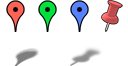
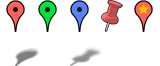
Implemented cool search box!

diff --git a/TheJobMap/war/jobmap.js b/TheJobMap/war/jobmap.js
@@ -43,9 +43,9 @@ var jobmap = {
 	map: null,
 	markers: [],
 	filter: {type:['city'], cat:[]},
-	mapMarkers: [],
 	newMarker: null,
 	myMarkers: [],
+	searchMatches: [],
 	mapControls: null,
 	mapOverlay: null,
 	infoWindow: null,
@@ -67,13 +67,15 @@ var jobmap = {
 	 * Initialize The Job Map.
 	 */
 	init: function(map) {
+		jobmap.map = map;
+		
+		// Setup ajax
 		$.ajaxSetup({
 			contentType: 'application/json; charset=UTF-8'
 		});
 		$(document).ajaxError(function(e, xhr, settings, exception) {
 			printError(settings.type+' '+settings.url+' failed: ', xhr.responseText);
 		});
-		jobmap.map = map;
 		
 		// Console
 		$('body').keypress(function(e) {
@@ -86,10 +88,22 @@ var jobmap = {
 			}
 		});
 
-		// Init side menu
+		// Zoom
+		google.maps.event.addListener(map, 'zoom_changed', jobmap.zoomChanged);
+		jobmap.zoom = jobmap.map.getZoom();
+
+		// InfoWindow
+		jobmap.infoWindow = new google.maps.InfoWindow({
+			maxWidth: 400
+		});
+		google.maps.event.addListener(jobmap.map, 'click', function() {
+			jobmap.infoWindow.close();
+		});
+		
+		// Side menu
 		jobmap.sideMenu();
 		
-		// Init OverlayView
+		// OverlayView
 		jobmap.mapOverlay = new google.maps.OverlayView();
 		jobmap.mapOverlay.draw = function() {};
 		jobmap.mapOverlay.setMap(jobmap.map);
@@ -97,21 +111,14 @@ var jobmap = {
 		// Create map controls
 		var mapControls = $('<div id="MapControls"></div>').css('opacity','0');
 		$('<button id="refreshMarkersButton">Refresh markers</button>').click(function() {
+			jobmap.clearSearch();
 			jobmap.clearMarkers();
 			jobmap.getMarkers('');
 		}).appendTo(mapControls);
-		$('<button id="createMarkerButton">Create my marker</button>').click(jobmap.createMarker).appendTo(mapControls);
+		$('<button id="createMarkerButton"></button>').click(jobmap.createMarker).appendTo(mapControls);
 		$('<button id="zoomOutButton">Zoom out</button>').click(jobmap.resetZoom).appendTo(mapControls);
 		jobmap.mapControls = mapControls;
 		map.controls[google.maps.ControlPosition.TOP_CENTER].push(mapControls[0]);
-		
-		// Info Window
-		jobmap.infoWindow = new google.maps.InfoWindow({
-			maxWidth: 400
-		});
-		google.maps.event.addListener(jobmap.map, 'click', function() {
-			jobmap.infoWindow.close();
-		});
 		
 		// Define pins
 		// [size], [origin], [point]
@@ -120,8 +127,7 @@ var jobmap = {
 			pushpin: [[59,32], [61,34], [9,32]]
 		};
 		$.each(shadow, function(i, m) {
-			shadow[i] = new google.maps.MarkerImage(
-					'/images/pins.png',
+			shadow[i] = new google.maps.MarkerImage('/images/pins.png',
 				new google.maps.Size(m[0][0],  m[0][1]),
 				new google.maps.Point(m[1][0], m[1][1]),
 				new google.maps.Point(m[2][0], m[2][1])
@@ -131,12 +137,12 @@ var jobmap = {
 			red:     [[32,32], [0,0],  [16,32], shadow.pin],
 			green:   [[32,32], [32,0], [16,32], shadow.pin],
 			blue:    [[32,32], [64,0], [16,32], shadow.pin],
-			pushpin: [[32,32], [96,0], [9,32],  shadow.pushpin]
+			pushpin: [[32,32], [96,0], [9,32],  shadow.pushpin],
+			search:  [[32,32], [128,0],[16,32], shadow.pin]
 		};
 		$.each(pins, function(i, m) {
 			jobmap.pins[i] = {
-				icon: new google.maps.MarkerImage(
-						'/images/pins.png',
+				icon: new google.maps.MarkerImage('/images/pins.png',
 					new google.maps.Size(m[0][0],  m[0][1]),
 					new google.maps.Point(m[1][0], m[1][1]),
 					new google.maps.Point(m[2][0], m[2][1])
@@ -153,10 +159,11 @@ var jobmap = {
 		// Create pin legend
 		var pinLegend = $('<div id="PinLegend">'+
 				'<span class="right ui-icon ui-icon-circle-close" title="Close"></span>'+
-				'<div><span class="city"></span> = A city</div>'+
-				'<div><span class="red"></span> = A job offer</div>'+
-				'<div><span class="green"></span> = You</div>'+
-				'<div><span class="blue"></span> = Someone else</div>'+
+				'<div><span class="pinLegend city"></span> = A city</div>'+
+				'<div><span class="pinLegend red"></span> = A job offer</div>'+
+				'<div><span class="pinLegend search"></span> = Search result</div>'+
+				'<div><span class="pinLegend green"></span> = You</div>'+
+				'<div><span class="pinLegend blue"></span> = Someone else</div>'+
 				'</div>').css('opacity','0');
 		$('.ui-icon',pinLegend).click(function() {
 			$(pinLegend).fadeOut('fast');
@@ -173,9 +180,21 @@ var jobmap = {
 		}).addClass('hidden').appendTo('#account');
 		$('<button id="logButton"></button>').click(jobmap.logButton).appendTo('#account');
 		
-		// Add listeners
-		google.maps.event.addListener(map, 'zoom_changed', jobmap.zoomChanged);
-		jobmap.zoom = jobmap.map.getZoom();
+		// Search
+		$('<div id="search"></div>')
+		.append($('<input type="search" id="q" placeholder="Examples: mechanic, nurse, teacher" />')
+			.keypress(function(e) {
+				if (e.which == 13) jobmap.search();
+				$(this).attr('oldvalue', $(this).val());
+			})
+			.click(function() {
+				if ($(this).val() == '' && $(this).attr('oldvalue') != '') jobmap.clearSearch();
+			}))
+		.append(' ')
+		.append($('<button>Search jobs</button>')
+			.click(jobmap.search))
+		.append($('<p id="searchResult"></p>'))
+		.appendTo('#panel');
 		
 		// Make requests
 		jobmap.getMarkers('city');
@@ -190,7 +209,7 @@ var jobmap = {
 	/**
 	 * Initialize the side menu.
 	 */
-	sideMenu: function(){
+	sideMenu: function() {
 		$('<div id="accordion">'+
 		'<h3><a href="#"><b>Find a job</b></a></h3>'+
 		'<div>'+
@@ -298,11 +317,10 @@ var jobmap = {
 			jobmap.newMarker.setMap(null);
 			jobmap.newMarker = null;
 		}
-		for (var i=0; i < jobmap.mapMarkers.length; i++) {
-			jobmap.mapMarkers[i].setMap(null);
-		}
+		$.each(jobmap.markers, function(key, marker) {
+			marker.mapMarker.setMap(null);
+		});
 		jobmap.markers = [];
-		jobmap.mapMarkers = [];
 	},
 	
 	/**
@@ -349,7 +367,6 @@ var jobmap = {
 			// This is a new marker
 			marker.mapMarker = mapMarker;
 			jobmap.markers.push(marker);
-			jobmap.mapMarkers.push(mapMarker);
 		}
 
 		// Set marker icon
@@ -362,6 +379,7 @@ var jobmap = {
 			jobmap.myMarkers.push(marker);
 			if (jobmap.user.privileges == 'random') {
 				$('#createMarkerButton',jobmap.mapControls).text('Edit my marker');
+				google.maps.event.trigger(jobmap.map, 'resize');
 			}
 		}
 		
@@ -418,7 +436,8 @@ var jobmap = {
 	markerVisible: function(marker) {
 		return (jobmap.showAll
 			|| (jobmap.isOwner(marker) && !jobmap.isAdmin())
-			|| (jobmap.filter.type.indexOf(marker.type) != -1 && (marker.type != 'company' || jobmap.filter.cat.indexOf(marker.cat) != -1)));
+			|| (jobmap.filter.type.indexOf(marker.type) != -1 && (marker.type != 'company' || jobmap.filter.cat.indexOf(marker.cat) != -1))
+			|| (jobmap.searchMatches.indexOf(marker) != -1));
 	},
 	
 	/**
@@ -533,6 +552,7 @@ var jobmap = {
 				jobmap.myMarkers.splice(0, 1);
 				if (jobmap.user.privileges == 'random') {
 					$('#createMarkerButton',jobmap.mapControls).text('Create my marker');
+					google.maps.event.trigger(jobmap.map, 'resize');
 				}
 			}
 			for (var i=0; i < jobmap.markers.length; i++) {
@@ -722,6 +742,74 @@ var jobmap = {
 		
 		jobmap.infoWindow.setContent(info[0]);
 	},
+
+	/** Search */
+	
+	/**
+	 * Searches markers.
+	 */
+	search: function() {
+		jobmap.clearSearch();
+		
+		// Get query
+		var q = $('#q').val().trim();
+		if (!q) {
+			$('#searchResult').text('Please enter a search term.');
+			return;
+		}
+		
+		// Search
+		printInfo('Searching for: ', q);
+		$.each(jobmap.markers, function(key, marker) {
+			if (marker.type == 'company' && (marker.title.indexOf(q) != -1 || marker.info.indexOf(q) != -1)) {
+				jobmap.searchMatches.push(marker);
+			}
+		});
+		
+		// Did we find anything?
+		if (jobmap.searchMatches.length == 0) {
+			$('#searchResult').text('No jobs matched.');
+			return;
+		}
+		
+		// Display results
+		$('#searchResult').text(jobmap.searchMatches.length+' job'+(jobmap.searchMatches.length>1?'s':'')+' matched.');
+		$.each(jobmap.searchMatches, function(key, marker) {
+			marker.mapMarker.setIcon(jobmap.pins.search.icon);
+			marker.mapMarker.setShadow(jobmap.pins.search.shadow);
+			marker.mapMarker.setMap(jobmap.map);
+		});
+		
+		// Reposition map
+		if (jobmap.searchMatches.length == 1) {
+			// Only one match, move the center and open the info window
+			jobmap.map.setCenter(jobmap.searchMatches[0].mapMarker.getPosition());
+			google.maps.event.trigger(jobmap.searchMatches[0].mapMarker, 'click');
+		}
+		else {
+			// More than one match, calculate bounds and show all matches
+			var bounds = new google.maps.LatLngBounds();
+			$.each(jobmap.searchMatches, function(key, marker) {
+				bounds.extend(marker.mapMarker.getPosition());
+			});
+			jobmap.map.fitBounds(bounds);
+		}
+	},
+	
+	/**
+	 * Reset markers matched by a previous search.
+	 */
+	clearSearch: function() {
+		$('#searchResult').text('');
+
+		// Restore matches
+		$.each(jobmap.searchMatches, function(key, marker) {
+			var pin = jobmap.pins[(!jobmap.isAdmin()&&jobmap.isOwner(marker))?'me':marker.type];
+			marker.mapMarker.setIcon(pin.icon);
+			marker.mapMarker.setShadow(pin.shadow);
+		});
+		jobmap.searchMatches = [];
+	},
 	
 	/** User */
 	
@@ -805,10 +893,13 @@ var jobmap = {
 			printInfo('User ('+who+'): ', data);
 			jobmap.user = data;
 			
-			// Update controls
+			// Update map controls
 			$('#createMarkerButton',jobmap.mapControls).text('Create '+(jobmap.user.privileges=='random'?'my':'a')+' marker');
-			$('#accname').text(jobmap.getUsername()).removeClass('hidden');
 			$(jobmap.mapControls).animate({opacity:1}, 'slow');
+			google.maps.event.trigger(jobmap.map, 'resize');
+			
+			// Update userbar
+			$('#accname').text(jobmap.getUsername()).removeClass('hidden');
 			if (jobmap.isAdmin()) {
 				$('<button id="adminButton">Admin</button>').click(jobmap.admin).insertBefore('#logButton');
 			}

diff --git a/TheJobMap/war/jobmap.css b/TheJobMap/war/jobmap.css
@@ -36,17 +36,33 @@ h1,h2,h3,h4 {
 
 
 #panel {
-	height: 88px;
+	height: 98px;
 	background: rgb(245,245,245);
 	border-bottom: 1px solid rgb(229,229,229);
-	padding-left: 20px;
-	padding-top: 10px;
+}
+
+#panel #logo {
+	float: left;
+	margin-left: 20px;
+	margin-top: 10px;
+	width: 300px;
+}
+#panel #search {
+	float: left;
+	margin-left: 40px;
+	margin-top: 40px;
+}
+#panel #search #q {
+	width: 280px;
+}
+#panel #search #searchResult {
+	color: grey;
+	font-size: small;
 }
 
 #panel #account {
 	display: none;
 	float: right;
-	margin-top: -10px;
 	background-color: rgb(201,223,175);
 	padding: 2px 4px 3px 20px;
 	
@@ -168,17 +184,18 @@ h1,h2,h3,h4 {
 #PinLegend div:last-child {
 	margin-bottom: 0;
 }
-#PinLegend div span {
+.pinLegend {
 	background: url(images/pins.png) no-repeat;
 	width: 32px;
 	height: 32px;
 	float: left;
 	margin-top: -6px;
 }
-#PinLegend div span.city  { background-position:-96px 0px; }
-#PinLegend div span.red   { background-position:0px 0px; }
-#PinLegend div span.green { background-position:-32px 0px; }
-#PinLegend div span.blue  { background-position:-64px 0px; }
+.pinLegend.city  { background-position:-96px 0px; }
+.pinLegend.red   { background-position:0px 0px; }
+.pinLegend.green { background-position:-32px 0px; }
+.pinLegend.blue  { background-position:-64px 0px; }
+.pinLegend.search  { background-position:-128px 0px; }
 
 #infoWindow {
 	min-width: 225px;

diff --git a/TheJobMap/war/TheJobMap.html b/TheJobMap/war/TheJobMap.html
@@ -11,7 +11,7 @@
 	<script type="text/javascript" src="jquery/js/jquery-ui-1.8.16.custom.min.js"></script>
 </head>
 <body onload="initialize()">
-	<div id="panel"><img src="images/logo.png" /></div>
+	<div id="panel"><img src="images/logo.png" id="logo" /></div>
 	<div id="page">
 		<div id="sidebar"></div>
 		<div id="map_canvas"><noscript>Your web browser must have JavaScript enabled in order for this application to run.</noscript></div>

diff --git a/TheJobMap/src/com/appspot/thejobmap/server/UserServlet.java b/TheJobMap/src/com/appspot/thejobmap/server/UserServlet.java
@@ -406,7 +406,7 @@ public class UserServlet extends HttpServlet {
 			return entityUser;
 		} catch (EntityNotFoundException e) {
 			//throw new ServletException("User is logged in but does not exist in database.");
-			System.out.println("Warning: User "+email+" is logged in but does not exist in database.");
+			//System.out.println("Warning: User "+email+" is logged in but does not exist in database.");
 			return null;
 		}
 	}
